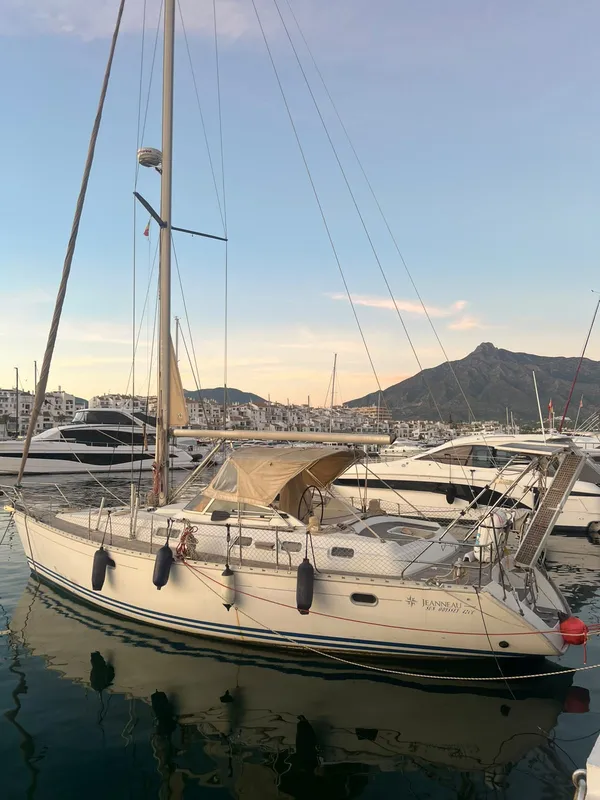
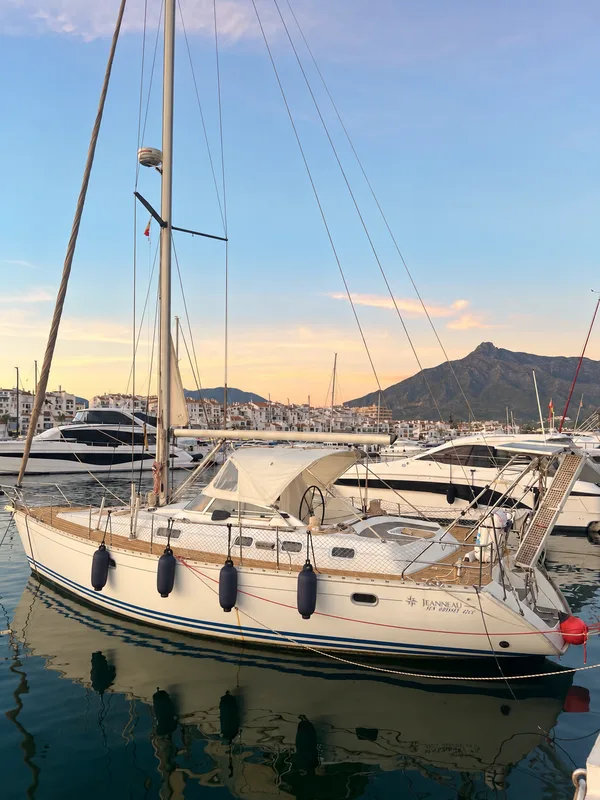
Portada con la foto editada por Jose (con el rótulo 42CC original)

diff --git a/ru/index.html b/ru/index.html
@@ -20,9 +20,9 @@
 <link rel="apple-touch-icon" href="../assets/icono-180.png">
 <link rel="preload" href="../assets/fuentes/sofia-sans-extra-condensed-normal-700-900-cyrillic.woff2" as="font" type="font/woff2" crossorigin>
 <link rel="preload" href="../assets/fuentes/sofia-sans-normal-400-800-cyrillic.woff2" as="font" type="font/woff2" crossorigin>
-<link rel="stylesheet" href="../assets/fuentes.css?v=202610260959">
-<link rel="stylesheet" href="../assets/estilo.css?v=202610260959">
-<link rel="preload" as="image" imagesrcset="../assets/fotos/petit-banus-600.webp 600w, ../assets/fotos/petit-banus-1200.webp 1200w" imagesizes="(max-width: 900px) 100vw, 44vw">
+<link rel="stylesheet" href="../assets/fuentes.css?v=202610261334">
+<link rel="stylesheet" href="../assets/estilo.css?v=202610261334">
+<link rel="preload" as="image" imagesrcset="../assets/fotos/petit-banus-600.webp 600w, ../assets/fotos/petit-banus-1086.webp 1086w" imagesizes="(max-width: 900px) 100vw, 44vw">
 <script type="application/ld+json">{"@context": "https://schema.org", "@type": "LocalBusiness", "name": "Sea With Jose", "url": "https://seawithjose.es/ru/", "image": "https://seawithjose.es/assets/compartir.jpg", "description": "Два часа под парусом из Пуэрто-Бануса с Хосе, капитаном яхты и океанографом: дельфины, купание с маской и ластами, напитки, закуски и фрукты включены. Групповая прогулка 50 € с человека, индивидуальная 350 € за яхту, до 11 гостей.", "telephone": "+34665092090", "email": "josemariahf612@gmail.com", "address": {"@type": "PostalAddress", "streetAddress": "Puerto José Banús", "postalCode": "29660", "addressLocality": "Marbella", "addressRegion": "Málaga", "addressCountry": "ES"}, "geo": {"@type": "GeoCoordinates", "latitude": 36.48517, "longitude": -4.951185}, "areaServed": "Marbella", "sameAs": ["https://www.instagram.com/seawithjose/"], "knowsLanguage": ["en", "es", "ru"], "makesOffer": [{"@type": "Offer", "name": "Групповая прогулка", "price": "50", "priceCurrency": "EUR", "url": "https://seawithjose.es/ru/#reservar"}, {"@type": "Offer", "name": "Индивидуальная прогулка", "price": "350", "priceCurrency": "EUR", "url": "https://seawithjose.es/ru/#reservar"}], "founder": {"@type": "Person", "name": "José María Hinojosa Figueira", "jobTitle": "Yacht captain, oceanographer and diving instructor"}}</script>
 </head>
 <body class="portada">
@@ -55,7 +55,7 @@
     </div>
   </div>
   <figure class="hero-foto">
-    <img src="../assets/fotos/petit-banus-600.webp" srcset="../assets/fotos/petit-banus-600.webp 600w, ../assets/fotos/petit-banus-1200.webp 1200w" sizes="(max-width: 900px) 100vw, 44vw" alt="«Пти» в Пуэрто-Банусе на закате, позади гора Ла-Конча" loading="eager" decoding="async">
+    <img src="../assets/fotos/petit-banus-600.webp" srcset="../assets/fotos/petit-banus-600.webp 600w, ../assets/fotos/petit-banus-1086.webp 1086w" sizes="(max-width: 900px) 100vw, 44vw" alt="«Пти» в Пуэрто-Банусе на закате, позади гора Ла-Конча" loading="eager" decoding="async">
   </figure>
 </section>
 
@@ -290,6 +290,6 @@
   </div>
 </footer>
 <script type="application/json" id="datos-pagina">{"lang": "ru", "prefijo": "../", "whatsapp": "34665092090", "pagina": "portada", "precios": {"compartida": 50, "privada": 350}, "plazas": 11, "dias": 120, "pagos": {"compartida": {}, "privada": ""}, "form": {"tipo": "Прогулка", "tipos": {"compartida": "Групповая", "privada": "Индивидуальная"}, "tipos_sub": {"compartida": "50 € с человека", "privada": "350 € за яхту"}, "fecha": "День", "hora": "Время", "atardecer": "Закат", "personas": "Гостей", "menos": "На одного меньше", "mas": "На одного больше", "max": "Не больше 11", "nombre": "Ваше имя", "nombre_ph": "", "extras": "Дополнительно к индивидуальной прогулке", "extras_nota": "Дополнительные услуги оплачиваются отдельно. Цену пришлю в WhatsApp до прогулки.", "otra": "Что-то ещё?", "total": "Итого", "detalle_compartida": "{n} × 50 €", "detalle_privada": "Вся яхта, 2 часа", "pagar": "Оплатить {total}", "whatsapp": "Забронировать через WhatsApp", "seguro": "Оплату проводит Stripe. Данные карты не проходят через этот сайт.", "politica": "Бесплатная отмена не позднее чем за 24 часа для групповой прогулки и за 48 часов для индивидуальной. Если море не позволяет выйти, перенесём день или я верну деньги.", "sin_pago": "Оплата картой заработает через несколько дней. Пока бронируйте через WhatsApp, я сразу подтвержу.", "falta_fecha": "Выберите день.", "falta_hora": "Выберите время.", "falta_nombre": "Напишите своё имя.", "prevision": "Прогноз AEMET на это время: парус {n}/10 ({banda})", "msg_inicio": "Здравствуйте, Хосе! Хочу забронировать прогулку на «Пти».", "msg_tipo": "Прогулка", "msg_fecha": "День", "msg_hora": "Время", "msg_personas": "Гостей", "msg_extras": "Дополнительно", "msg_nombre": "Имя", "msg_total": "Итого", "msg_ref": "Номер брони", "msg_pagado": "Я только что оплатил(а) на сайте."}, "resumen": {"titulo": "Ваша бронь", "salida": "Прогулка", "fecha": "День", "hora": "Время", "pax": "Гостей", "extras": "Дополнительно", "total": "Итого"}, "extras": {"buffet": "Фуршет на борту", "paella": "Паэлья", "sushi": "Суши", "cocteles": "Коктейли", "tarta": "Торт", "decoracion": "Украшения", "moto": "Гидроцикл", "taxi": "Такси", "otra": "Другая идея"}, "mar": {"hoy": "Сегодня", "manana": "Завтра", "actividades": {"navegar": "Парус", "bucear": "Дайвинг", "pescar": "Рыбалка"}, "bandas": ["Лучше в другой день", "Плохо", "Так себе", "Хорошо", "Отлично"], "motivos": {"buen_viento": "Ветер как раз для паруса.", "mar_tranquila": "Спокойное море.", "sin_viento": "Штиль: больше купания, чем паруса.", "poco_viento": "Слабый ветер: идём медленно.", "viento_fresco": "Свежий ветер: яхта идёт с креном.", "viento": "Небольшой ветер.", "viento_fuerte": "Слишком сильный ветер.", "rachas": "Сильные порывы.", "marejadilla": "Небольшая волна.", "marejada": "Заметная волна.", "mar_fuerte": "Сильное волнение.", "mar_de_fondo": "Зыбь.", "lluvia": "Вероятен дождь.", "tormenta": "Возможна гроза.", "niebla": "Туман или дымка у берега.", "agua_fria": "Холодная вода: нужен толстый гидрокостюм.", "aviso": "Предупреждение AEMET для побережья.", "temporal": "Шторм: остаёмся в порту."}, "pasado": "прошло", "tramo": "ч", "tabla": {"viento": "Ветер", "racha": "Порывы", "mar": "Море", "cielo": "Небо", "lluvia": "Дождь", "agua": "Вода", "fondo": "зыбь"}, "mar_clases": ["рябь", "слабое волнение, до 0,5 м", "лёгкое волнение, 0,5–1,25 м", "умеренное волнение, 1,25–2,5 м", "сильное волнение, больше 2,5 м"], "mar_cortos": ["рябь", "слабое волнение", "лёгкое волнение", "умеренное волнение", "сильное волнение"], "cielos": {"despejado": "ясно", "poco_nuboso": "малооблачно", "intervalos": "переменная облачность", "nuboso": "облачно", "cubierto": "пасмурно", "nubes_altas": "перистые облака", "lluvia": "дождь", "lluvia_escasa": "небольшой дождь", "tormenta": "гроза", "niebla": "туман", "bruma": "дымка", "calima": "пыльная мгла"}, "rumbos": {"N": "С", "NE": "СВ", "E": "В", "SE": "ЮВ", "S": "Ю", "SO": "ЮЗ", "O": "З", "NO": "СЗ", "C": "штиль"}, "kmh": "км/ч", "costera_h": "Прибрежный прогноз AEMET · воды у побережья Малаги", "costera_resumen": "Ветер по шкале Бофорта: {f}; море: {m}.", "costera_a": " или ", "costera_texto": "Официальный текст на испанском:", "costera_hasta": "Действует до {fin}.", "aviso_h": "Предупреждение AEMET для побережья Малаги", "fuente": "Прогноз: AEMET (пляж Рио-Верде – Пуэрто-Банус, Марбелья по часам и прибрежные воды Малаги). Обновлено {hora}.", "sin_datos": "Сейчас прогноз AEMET недоступен. Напишите мне — расскажу, какое море."}}</script>
-<script src="../assets/web.js?v=202610260959" defer></script>
+<script src="../assets/web.js?v=202610261334" defer></script>
 </body>
 </html>

diff --git a/es/index.html b/es/index.html
@@ -20,9 +20,9 @@
 <link rel="apple-touch-icon" href="../assets/icono-180.png">
 <link rel="preload" href="../assets/fuentes/sofia-sans-extra-condensed-normal-700-900-latin.woff2" as="font" type="font/woff2" crossorigin>
 <link rel="preload" href="../assets/fuentes/sofia-sans-normal-400-800-latin.woff2" as="font" type="font/woff2" crossorigin>
-<link rel="stylesheet" href="../assets/fuentes.css?v=202610260959">
-<link rel="stylesheet" href="../assets/estilo.css?v=202610260959">
-<link rel="preload" as="image" imagesrcset="../assets/fotos/petit-banus-600.webp 600w, ../assets/fotos/petit-banus-1200.webp 1200w" imagesizes="(max-width: 900px) 100vw, 44vw">
+<link rel="stylesheet" href="../assets/fuentes.css?v=202610261334">
+<link rel="stylesheet" href="../assets/estilo.css?v=202610261334">
+<link rel="preload" as="image" imagesrcset="../assets/fotos/petit-banus-600.webp 600w, ../assets/fotos/petit-banus-1086.webp 1086w" imagesizes="(max-width: 900px) 100vw, 44vw">
 <script type="application/ld+json">{"@context": "https://schema.org", "@type": "LocalBusiness", "name": "Sea With Jose", "url": "https://seawithjose.es/es/", "image": "https://seawithjose.es/assets/compartir.jpg", "description": "Dos horas a vela desde Puerto Banús con Jose, capitán de yate y oceanógrafo: delfines, baño con gafas y aletas, bebida, snacks y fruta incluidos. Compartida 50 € por persona; privada 350 € el barco, hasta 11 personas.", "telephone": "+34665092090", "email": "josemariahf612@gmail.com", "address": {"@type": "PostalAddress", "streetAddress": "Puerto José Banús", "postalCode": "29660", "addressLocality": "Marbella", "addressRegion": "Málaga", "addressCountry": "ES"}, "geo": {"@type": "GeoCoordinates", "latitude": 36.48517, "longitude": -4.951185}, "areaServed": "Marbella", "sameAs": ["https://www.instagram.com/seawithjose/"], "knowsLanguage": ["en", "es", "ru"], "makesOffer": [{"@type": "Offer", "name": "Salida compartida", "price": "50", "priceCurrency": "EUR", "url": "https://seawithjose.es/es/#reservar"}, {"@type": "Offer", "name": "Salida privada", "price": "350", "priceCurrency": "EUR", "url": "https://seawithjose.es/es/#reservar"}], "founder": {"@type": "Person", "name": "José María Hinojosa Figueira", "jobTitle": "Yacht captain, oceanographer and diving instructor"}}</script>
 </head>
 <body class="portada">
@@ -55,7 +55,7 @@
     </div>
   </div>
   <figure class="hero-foto">
-    <img src="../assets/fotos/petit-banus-600.webp" srcset="../assets/fotos/petit-banus-600.webp 600w, ../assets/fotos/petit-banus-1200.webp 1200w" sizes="(max-width: 900px) 100vw, 44vw" alt="El Petit en Puerto Banús al atardecer, con La Concha detrás" loading="eager" decoding="async">
+    <img src="../assets/fotos/petit-banus-600.webp" srcset="../assets/fotos/petit-banus-600.webp 600w, ../assets/fotos/petit-banus-1086.webp 1086w" sizes="(max-width: 900px) 100vw, 44vw" alt="El Petit en Puerto Banús al atardecer, con La Concha detrás" loading="eager" decoding="async">
   </figure>
 </section>
 
@@ -290,6 +290,6 @@
   </div>
 </footer>
 <script type="application/json" id="datos-pagina">{"lang": "es", "prefijo": "../", "whatsapp": "34665092090", "pagina": "portada", "precios": {"compartida": 50, "privada": 350}, "plazas": 11, "dias": 120, "pagos": {"compartida": {}, "privada": ""}, "form": {"tipo": "Salida", "tipos": {"compartida": "Compartida", "privada": "Privada"}, "tipos_sub": {"compartida": "50 € por persona", "privada": "350 € el barco"}, "fecha": "Día", "hora": "Hora", "atardecer": "Atardecer", "personas": "Personas", "menos": "Una persona menos", "mas": "Una persona más", "max": "Como mucho 11", "nombre": "Tu nombre", "nombre_ph": "", "extras": "Extras para la privada", "extras_nota": "Los extras van aparte. Te paso el precio por WhatsApp antes de la salida.", "otra": "¿Algo más?", "total": "Total", "detalle_compartida": "{n} × 50 €", "detalle_privada": "El barco entero, 2 horas", "pagar": "Pagar {total}", "whatsapp": "Reservar por WhatsApp", "seguro": "El pago lo gestiona Stripe. Los datos de tu tarjeta no pasan por esta web.", "politica": "Cancelación gratis hasta 24 horas antes en la compartida y 48 horas en la privada. Si el mar no deja salir, cambiamos el día o te devuelvo el dinero.", "sin_pago": "El pago con tarjeta estará listo en unos días. Mientras, reserva por WhatsApp y te confirmo enseguida.", "falta_fecha": "Elige el día.", "falta_hora": "Elige la hora.", "falta_nombre": "Dime tu nombre.", "prevision": "Previsión de AEMET para esa hora: navegar {n}/10 ({banda})", "msg_inicio": "¡Hola Jose! Quiero reservar una salida en el Petit.", "msg_tipo": "Salida", "msg_fecha": "Día", "msg_hora": "Hora", "msg_personas": "Personas", "msg_extras": "Extras", "msg_nombre": "Nombre", "msg_total": "Total", "msg_ref": "Referencia", "msg_pagado": "Acabo de pagar por la web."}, "resumen": {"titulo": "Tu reserva", "salida": "Salida", "fecha": "Día", "hora": "Hora", "pax": "Personas", "extras": "Extras", "total": "Total"}, "extras": {"buffet": "Buffet a bordo", "paella": "Paella", "sushi": "Sushi", "cocteles": "Cócteles", "tarta": "Tarta", "decoracion": "Decoración", "moto": "Moto de agua", "taxi": "Taxi", "otra": "Otra idea"}, "mar": {"hoy": "Hoy", "manana": "Mañana", "actividades": {"navegar": "Navegar", "bucear": "Bucear", "pescar": "Pescar"}, "bandas": ["Mejor otro día", "Mala", "Regular", "Buena", "Muy buena"], "motivos": {"buen_viento": "Viento justo para ir a vela.", "mar_tranquila": "Mar tranquila.", "sin_viento": "Sin viento: más baño que vela.", "poco_viento": "Poco viento: se navega despacio.", "viento_fresco": "Viento fresco: se navega escorado.", "viento": "Algo de viento.", "viento_fuerte": "Demasiado viento.", "rachas": "Rachas fuertes.", "marejadilla": "Algo de ola.", "marejada": "Marejada: mar movida.", "mar_fuerte": "Mar fuerte.", "mar_de_fondo": "Mar de fondo.", "lluvia": "Probable lluvia.", "tormenta": "Riesgo de tormenta.", "niebla": "Niebla o bruma en la costa.", "agua_fria": "Agua fría: traje grueso.", "aviso": "Aviso costero de AEMET.", "temporal": "Temporal: no se sale."}, "pasado": "ya pasó", "tramo": "h", "tabla": {"viento": "Viento", "racha": "Rachas", "mar": "Mar", "cielo": "Cielo", "lluvia": "Lluvia", "agua": "Agua", "fondo": "mar de fondo"}, "mar_clases": ["rizada", "marejadilla, hasta 0,5 m", "marejada, 0,5–1,25 m", "fuerte marejada, 1,25–2,5 m", "gruesa, más de 2,5 m"], "mar_cortos": ["rizada", "marejadilla", "marejada", "fuerte marejada", "gruesa"], "cielos": {"despejado": "despejado", "poco_nuboso": "poco nuboso", "intervalos": "intervalos nubosos", "nuboso": "nuboso", "cubierto": "cubierto", "nubes_altas": "nubes altas", "lluvia": "lluvia", "lluvia_escasa": "lluvia débil", "tormenta": "tormenta", "niebla": "niebla", "bruma": "bruma", "calima": "calima"}, "rumbos": {"N": "N", "NE": "NE", "E": "E", "SE": "SE", "S": "S", "SO": "SO", "O": "O", "NO": "NO", "C": "calma"}, "kmh": "km/h", "costera_h": "Parte costero de AEMET · Aguas costeras de Málaga", "costera_resumen": "Viento fuerza {f}, mar {m}.", "costera_a": " a ", "costera_texto": "Texto oficial:", "costera_hasta": "Válido hasta {fin}.", "aviso_h": "Aviso de AEMET para la costa de Málaga", "fuente": "Previsión: AEMET (playa Río Verde – Puerto Banús, Marbella por horas y aguas costeras de Málaga). Actualizada {hora}.", "sin_datos": "Ahora mismo no me llega la previsión de AEMET. Escríbeme y te digo cómo está el mar."}}</script>
-<script src="../assets/web.js?v=202610260959" defer></script>
+<script src="../assets/web.js?v=202610261334" defer></script>
 </body>
 </html>

diff --git a/index.html b/index.html
@@ -20,9 +20,9 @@
 <link rel="apple-touch-icon" href="assets/icono-180.png">
 <link rel="preload" href="assets/fuentes/sofia-sans-extra-condensed-normal-700-900-latin.woff2" as="font" type="font/woff2" crossorigin>
 <link rel="preload" href="assets/fuentes/sofia-sans-normal-400-800-latin.woff2" as="font" type="font/woff2" crossorigin>
-<link rel="stylesheet" href="assets/fuentes.css?v=202610260959">
-<link rel="stylesheet" href="assets/estilo.css?v=202610260959">
-<link rel="preload" as="image" imagesrcset="assets/fotos/petit-banus-600.webp 600w, assets/fotos/petit-banus-1200.webp 1200w" imagesizes="(max-width: 900px) 100vw, 44vw">
+<link rel="stylesheet" href="assets/fuentes.css?v=202610261334">
+<link rel="stylesheet" href="assets/estilo.css?v=202610261334">
+<link rel="preload" as="image" imagesrcset="assets/fotos/petit-banus-600.webp 600w, assets/fotos/petit-banus-1086.webp 1086w" imagesizes="(max-width: 900px) 100vw, 44vw">
 <script type="application/ld+json">{"@context": "https://schema.org", "@type": "LocalBusiness", "name": "Sea With Jose", "url": "https://seawithjose.es/", "image": "https://seawithjose.es/assets/compartir.jpg", "description": "Two hours under sail from Puerto Banús with Jose, yacht captain and oceanographer: dolphins, a swim with mask and fins, drinks, snacks and fruit included. Shared trip €50 per person; private €350 for the boat, up to 11 guests.", "telephone": "+34665092090", "email": "josemariahf612@gmail.com", "address": {"@type": "PostalAddress", "streetAddress": "Puerto José Banús", "postalCode": "29660", "addressLocality": "Marbella", "addressRegion": "Málaga", "addressCountry": "ES"}, "geo": {"@type": "GeoCoordinates", "latitude": 36.48517, "longitude": -4.951185}, "areaServed": "Marbella", "sameAs": ["https://www.instagram.com/seawithjose/"], "knowsLanguage": ["en", "es", "ru"], "makesOffer": [{"@type": "Offer", "name": "Shared trip", "price": "50", "priceCurrency": "EUR", "url": "https://seawithjose.es/#reservar"}, {"@type": "Offer", "name": "Private trip", "price": "350", "priceCurrency": "EUR", "url": "https://seawithjose.es/#reservar"}], "founder": {"@type": "Person", "name": "José María Hinojosa Figueira", "jobTitle": "Yacht captain, oceanographer and diving instructor"}}</script>
 </head>
 <body class="portada">
@@ -55,7 +55,7 @@
     </div>
   </div>
   <figure class="hero-foto">
-    <img src="assets/fotos/petit-banus-600.webp" srcset="assets/fotos/petit-banus-600.webp 600w, assets/fotos/petit-banus-1200.webp 1200w" sizes="(max-width: 900px) 100vw, 44vw" alt="The Petit in Puerto Banús at sunset, with La Concha behind" loading="eager" decoding="async">
+    <img src="assets/fotos/petit-banus-600.webp" srcset="assets/fotos/petit-banus-600.webp 600w, assets/fotos/petit-banus-1086.webp 1086w" sizes="(max-width: 900px) 100vw, 44vw" alt="The Petit in Puerto Banús at sunset, with La Concha behind" loading="eager" decoding="async">
   </figure>
 </section>
 
@@ -290,6 +290,6 @@
   </div>
 </footer>
 <script type="application/json" id="datos-pagina">{"lang": "en", "prefijo": "", "whatsapp": "34665092090", "pagina": "portada", "precios": {"compartida": 50, "privada": 350}, "plazas": 11, "dias": 120, "pagos": {"compartida": {}, "privada": ""}, "form": {"tipo": "Trip", "tipos": {"compartida": "Shared", "privada": "Private"}, "tipos_sub": {"compartida": "€50 per person", "privada": "€350 the boat"}, "fecha": "Day", "hora": "Time", "atardecer": "Sunset", "personas": "People", "menos": "One person fewer", "mas": "One person more", "max": "11 at most", "nombre": "Your name", "nombre_ph": "", "extras": "Extras for private trips", "extras_nota": "Extras are priced separately. I’ll send you the price on WhatsApp before the trip.", "otra": "Anything else?", "total": "Total", "detalle_compartida": "{n} × €50", "detalle_privada": "The whole boat, 2 hours", "pagar": "Pay {total}", "whatsapp": "Book on WhatsApp", "seguro": "Payment is handled by Stripe. Your card details never go through this website.", "politica": "Free cancellation up to 24 hours before a shared trip and 48 hours before a private one. If the sea isn’t good enough to go out, we change the day or I give you your money back.", "sin_pago": "Card payment will be ready in a few days. For now, book on WhatsApp and I’ll confirm straight away.", "falta_fecha": "Choose a day.", "falta_hora": "Choose a time.", "falta_nombre": "Tell me your name.", "prevision": "AEMET forecast for that time: sailing {n}/10 ({banda})", "msg_inicio": "Hi Jose! I’d like to book a trip on the Petit.", "msg_tipo": "Trip", "msg_fecha": "Day", "msg_hora": "Time", "msg_personas": "People", "msg_extras": "Extras", "msg_nombre": "Name", "msg_total": "Total", "msg_ref": "Reference", "msg_pagado": "I’ve just paid online."}, "resumen": {"titulo": "Your booking", "salida": "Trip", "fecha": "Day", "hora": "Time", "pax": "People", "extras": "Extras", "total": "Total"}, "extras": {"buffet": "Buffet on board", "paella": "Paella", "sushi": "Sushi", "cocteles": "Cocktails", "tarta": "Cake", "decoracion": "Decorations", "moto": "Jet ski", "taxi": "Taxi", "otra": "Something else"}, "mar": {"hoy": "Today", "manana": "Tomorrow", "actividades": {"navegar": "Sailing", "bucear": "Diving", "pescar": "Fishing"}, "bandas": ["Better another day", "Poor", "Fair", "Good", "Excellent"], "motivos": {"buen_viento": "Just the right wind for sailing.", "mar_tranquila": "Calm sea.", "sin_viento": "No wind: more swimming than sailing.", "poco_viento": "Light wind: slow sailing.", "viento_fresco": "Fresh breeze: the boat heels.", "viento": "A bit of wind.", "viento_fuerte": "Too much wind.", "rachas": "Strong gusts.", "marejadilla": "Small waves.", "marejada": "Choppy sea.", "mar_fuerte": "Rough sea.", "mar_de_fondo": "Swell.", "lluvia": "Rain likely.", "tormenta": "Risk of thunderstorms.", "niebla": "Fog or haze along the coast.", "agua_fria": "Cold water: thick wetsuit.", "aviso": "AEMET coastal warning.", "temporal": "Gale: we stay in port."}, "pasado": "over", "tramo": "h", "tabla": {"viento": "Wind", "racha": "Gusts", "mar": "Sea", "cielo": "Sky", "lluvia": "Rain", "agua": "Water", "fondo": "swell"}, "mar_clases": ["calm, ripples", "smooth, up to 0.5 m", "slight, 0.5–1.25 m", "moderate, 1.25–2.5 m", "rough, over 2.5 m"], "mar_cortos": ["calm", "smooth", "slight", "moderate", "rough"], "cielos": {"despejado": "clear", "poco_nuboso": "partly cloudy", "intervalos": "cloudy spells", "nuboso": "cloudy", "cubierto": "overcast", "nubes_altas": "high cloud", "lluvia": "rain", "lluvia_escasa": "light rain", "tormenta": "thunderstorms", "niebla": "fog", "bruma": "haze", "calima": "dust haze"}, "rumbos": {"N": "N", "NE": "NE", "E": "E", "SE": "SE", "S": "S", "SO": "SW", "O": "W", "NO": "NW", "C": "calm"}, "kmh": "km/h", "costera_h": "AEMET coastal forecast · Málaga coastal waters", "costera_resumen": "Wind force {f} Beaufort, sea {m}.", "costera_a": " to ", "costera_texto": "Official text, in Spanish:", "costera_hasta": "Valid until {fin}.", "aviso_h": "AEMET warning for the Málaga coast", "fuente": "Forecast: AEMET (Río Verde – Puerto Banús beach, Marbella hour by hour and Málaga coastal waters). Updated {hora}.", "sin_datos": "The AEMET forecast isn’t coming through right now. Message me and I’ll tell you how the sea looks."}}</script>
-<script src="assets/web.js?v=202610260959" defer></script>
+<script src="assets/web.js?v=202610261334" defer></script>
 </body>
 </html>

diff --git a/ru/gracias.html b/ru/gracias.html
@@ -20,8 +20,8 @@
 <link rel="apple-touch-icon" href="../assets/icono-180.png">
 <link rel="preload" href="../assets/fuentes/sofia-sans-extra-condensed-normal-700-900-cyrillic.woff2" as="font" type="font/woff2" crossorigin>
 <link rel="preload" href="../assets/fuentes/sofia-sans-normal-400-800-cyrillic.woff2" as="font" type="font/woff2" crossorigin>
-<link rel="stylesheet" href="../assets/fuentes.css?v=202610260959">
-<link rel="stylesheet" href="../assets/estilo.css?v=202610260959">
+<link rel="stylesheet" href="../assets/fuentes.css?v=202610261334">
+<link rel="stylesheet" href="../assets/estilo.css?v=202610261334">
 <meta name="robots" content="noindex">
 </head>
 <body>
@@ -72,6 +72,6 @@
   </div>
 </footer>
 <script type="application/json" id="datos-pagina">{"pagina": "gracias", "resumen": {"titulo": "Ваша бронь", "salida": "Прогулка", "fecha": "День", "hora": "Время", "pax": "Гостей", "extras": "Дополнительно", "total": "Итого"}, "form": {"tipo": "Прогулка", "tipos": {"compartida": "Групповая", "privada": "Индивидуальная"}, "tipos_sub": {"compartida": "50 € с человека", "privada": "350 € за яхту"}, "fecha": "День", "hora": "Время", "atardecer": "Закат", "personas": "Гостей", "menos": "На одного меньше", "mas": "На одного больше", "max": "Не больше 11", "nombre": "Ваше имя", "nombre_ph": "", "extras": "Дополнительно к индивидуальной прогулке", "extras_nota": "Дополнительные услуги оплачиваются отдельно. Цену пришлю в WhatsApp до прогулки.", "otra": "Что-то ещё?", "total": "Итого", "detalle_compartida": "{n} × 50 €", "detalle_privada": "Вся яхта, 2 часа", "pagar": "Оплатить {total}", "whatsapp": "Забронировать через WhatsApp", "seguro": "Оплату проводит Stripe. Данные карты не проходят через этот сайт.", "politica": "Бесплатная отмена не позднее чем за 24 часа для групповой прогулки и за 48 часов для индивидуальной. Если море не позволяет выйти, перенесём день или я верну деньги.", "sin_pago": "Оплата картой заработает через несколько дней. Пока бронируйте через WhatsApp, я сразу подтвержу.", "falta_fecha": "Выберите день.", "falta_hora": "Выберите время.", "falta_nombre": "Напишите своё имя.", "prevision": "Прогноз AEMET на это время: парус {n}/10 ({banda})", "msg_inicio": "Здравствуйте, Хосе! Хочу забронировать прогулку на «Пти».", "msg_tipo": "Прогулка", "msg_fecha": "День", "msg_hora": "Время", "msg_personas": "Гостей", "msg_extras": "Дополнительно", "msg_nombre": "Имя", "msg_total": "Итого", "msg_ref": "Номер брони", "msg_pagado": "Я только что оплатил(а) на сайте."}, "extras": {"buffet": "Фуршет на борту", "paella": "Паэлья", "sushi": "Суши", "cocteles": "Коктейли", "tarta": "Торт", "decoracion": "Украшения", "moto": "Гидроцикл", "taxi": "Такси", "otra": "Другая идея"}, "lang": "ru", "prefijo": "../", "whatsapp": "34665092090"}</script>
-<script src="../assets/web.js?v=202610260959" defer></script>
+<script src="../assets/web.js?v=202610261334" defer></script>
 </body>
 </html>

diff --git a/es/gracias.html b/es/gracias.html
@@ -20,8 +20,8 @@
 <link rel="apple-touch-icon" href="../assets/icono-180.png">
 <link rel="preload" href="../assets/fuentes/sofia-sans-extra-condensed-normal-700-900-latin.woff2" as="font" type="font/woff2" crossorigin>
 <link rel="preload" href="../assets/fuentes/sofia-sans-normal-400-800-latin.woff2" as="font" type="font/woff2" crossorigin>
-<link rel="stylesheet" href="../assets/fuentes.css?v=202610260959">
-<link rel="stylesheet" href="../assets/estilo.css?v=202610260959">
+<link rel="stylesheet" href="../assets/fuentes.css?v=202610261334">
+<link rel="stylesheet" href="../assets/estilo.css?v=202610261334">
 <meta name="robots" content="noindex">
 </head>
 <body>
@@ -72,6 +72,6 @@
   </div>
 </footer>
 <script type="application/json" id="datos-pagina">{"pagina": "gracias", "resumen": {"titulo": "Tu reserva", "salida": "Salida", "fecha": "Día", "hora": "Hora", "pax": "Personas", "extras": "Extras", "total": "Total"}, "form": {"tipo": "Salida", "tipos": {"compartida": "Compartida", "privada": "Privada"}, "tipos_sub": {"compartida": "50 € por persona", "privada": "350 € el barco"}, "fecha": "Día", "hora": "Hora", "atardecer": "Atardecer", "personas": "Personas", "menos": "Una persona menos", "mas": "Una persona más", "max": "Como mucho 11", "nombre": "Tu nombre", "nombre_ph": "", "extras": "Extras para la privada", "extras_nota": "Los extras van aparte. Te paso el precio por WhatsApp antes de la salida.", "otra": "¿Algo más?", "total": "Total", "detalle_compartida": "{n} × 50 €", "detalle_privada": "El barco entero, 2 horas", "pagar": "Pagar {total}", "whatsapp": "Reservar por WhatsApp", "seguro": "El pago lo gestiona Stripe. Los datos de tu tarjeta no pasan por esta web.", "politica": "Cancelación gratis hasta 24 horas antes en la compartida y 48 horas en la privada. Si el mar no deja salir, cambiamos el día o te devuelvo el dinero.", "sin_pago": "El pago con tarjeta estará listo en unos días. Mientras, reserva por WhatsApp y te confirmo enseguida.", "falta_fecha": "Elige el día.", "falta_hora": "Elige la hora.", "falta_nombre": "Dime tu nombre.", "prevision": "Previsión de AEMET para esa hora: navegar {n}/10 ({banda})", "msg_inicio": "¡Hola Jose! Quiero reservar una salida en el Petit.", "msg_tipo": "Salida", "msg_fecha": "Día", "msg_hora": "Hora", "msg_personas": "Personas", "msg_extras": "Extras", "msg_nombre": "Nombre", "msg_total": "Total", "msg_ref": "Referencia", "msg_pagado": "Acabo de pagar por la web."}, "extras": {"buffet": "Buffet a bordo", "paella": "Paella", "sushi": "Sushi", "cocteles": "Cócteles", "tarta": "Tarta", "decoracion": "Decoración", "moto": "Moto de agua", "taxi": "Taxi", "otra": "Otra idea"}, "lang": "es", "prefijo": "../", "whatsapp": "34665092090"}</script>
-<script src="../assets/web.js?v=202610260959" defer></script>
+<script src="../assets/web.js?v=202610261334" defer></script>
 </body>
 </html>

diff --git a/gracias.html b/gracias.html
@@ -20,8 +20,8 @@
 <link rel="apple-touch-icon" href="assets/icono-180.png">
 <link rel="preload" href="assets/fuentes/sofia-sans-extra-condensed-normal-700-900-latin.woff2" as="font" type="font/woff2" crossorigin>
 <link rel="preload" href="assets/fuentes/sofia-sans-normal-400-800-latin.woff2" as="font" type="font/woff2" crossorigin>
-<link rel="stylesheet" href="assets/fuentes.css?v=202610260959">
-<link rel="stylesheet" href="assets/estilo.css?v=202610260959">
+<link rel="stylesheet" href="assets/fuentes.css?v=202610261334">
+<link rel="stylesheet" href="assets/estilo.css?v=202610261334">
 <meta name="robots" content="noindex">
 </head>
 <body>
@@ -72,6 +72,6 @@
   </div>
 </footer>
 <script type="application/json" id="datos-pagina">{"pagina": "gracias", "resumen": {"titulo": "Your booking", "salida": "Trip", "fecha": "Day", "hora": "Time", "pax": "People", "extras": "Extras", "total": "Total"}, "form": {"tipo": "Trip", "tipos": {"compartida": "Shared", "privada": "Private"}, "tipos_sub": {"compartida": "€50 per person", "privada": "€350 the boat"}, "fecha": "Day", "hora": "Time", "atardecer": "Sunset", "personas": "People", "menos": "One person fewer", "mas": "One person more", "max": "11 at most", "nombre": "Your name", "nombre_ph": "", "extras": "Extras for private trips", "extras_nota": "Extras are priced separately. I’ll send you the price on WhatsApp before the trip.", "otra": "Anything else?", "total": "Total", "detalle_compartida": "{n} × €50", "detalle_privada": "The whole boat, 2 hours", "pagar": "Pay {total}", "whatsapp": "Book on WhatsApp", "seguro": "Payment is handled by Stripe. Your card details never go through this website.", "politica": "Free cancellation up to 24 hours before a shared trip and 48 hours before a private one. If the sea isn’t good enough to go out, we change the day or I give you your money back.", "sin_pago": "Card payment will be ready in a few days. For now, book on WhatsApp and I’ll confirm straight away.", "falta_fecha": "Choose a day.", "falta_hora": "Choose a time.", "falta_nombre": "Tell me your name.", "prevision": "AEMET forecast for that time: sailing {n}/10 ({banda})", "msg_inicio": "Hi Jose! I’d like to book a trip on the Petit.", "msg_tipo": "Trip", "msg_fecha": "Day", "msg_hora": "Time", "msg_personas": "People", "msg_extras": "Extras", "msg_nombre": "Name", "msg_total": "Total", "msg_ref": "Reference", "msg_pagado": "I’ve just paid online."}, "extras": {"buffet": "Buffet on board", "paella": "Paella", "sushi": "Sushi", "cocteles": "Cocktails", "tarta": "Cake", "decoracion": "Decorations", "moto": "Jet ski", "taxi": "Taxi", "otra": "Something else"}, "lang": "en", "prefijo": "", "whatsapp": "34665092090"}</script>
-<script src="assets/web.js?v=202610260959" defer></script>
+<script src="assets/web.js?v=202610261334" defer></script>
 </body>
 </html>

diff --git a/ru/datos.html b/ru/datos.html
@@ -20,8 +20,8 @@
 <link rel="apple-touch-icon" href="../assets/icono-180.png">
 <link rel="preload" href="../assets/fuentes/sofia-sans-extra-condensed-normal-700-900-cyrillic.woff2" as="font" type="font/woff2" crossorigin>
 <link rel="preload" href="../assets/fuentes/sofia-sans-normal-400-800-cyrillic.woff2" as="font" type="font/woff2" crossorigin>
-<link rel="stylesheet" href="../assets/fuentes.css?v=202610260959">
-<link rel="stylesheet" href="../assets/estilo.css?v=202610260959">
+<link rel="stylesheet" href="../assets/fuentes.css?v=202610261334">
+<link rel="stylesheet" href="../assets/estilo.css?v=202610261334">
 </head>
 <body class="pagina-datos">
 <a class="saltar" href="#contenido">Перейти к содержанию</a>
@@ -106,7 +106,7 @@
 <script src="../assets/vendor/chartjs-adapter-date-fns.bundle.min.js"></script>
 <script src="../assets/vendor/hammer.min.js"></script>
 <script src="../assets/vendor/chartjs-plugin-zoom.min.js"></script>
-<script src="../assets/datos.js?v=202610260959" defer></script>
-<script src="../assets/web.js?v=202610260959" defer></script>
+<script src="../assets/datos.js?v=202610261334" defer></script>
+<script src="../assets/web.js?v=202610261334" defer></script>
 </body>
 </html>

diff --git a/es/datos.html b/es/datos.html
@@ -20,8 +20,8 @@
 <link rel="apple-touch-icon" href="../assets/icono-180.png">
 <link rel="preload" href="../assets/fuentes/sofia-sans-extra-condensed-normal-700-900-latin.woff2" as="font" type="font/woff2" crossorigin>
 <link rel="preload" href="../assets/fuentes/sofia-sans-normal-400-800-latin.woff2" as="font" type="font/woff2" crossorigin>
-<link rel="stylesheet" href="../assets/fuentes.css?v=202610260959">
-<link rel="stylesheet" href="../assets/estilo.css?v=202610260959">
+<link rel="stylesheet" href="../assets/fuentes.css?v=202610261334">
+<link rel="stylesheet" href="../assets/estilo.css?v=202610261334">
 </head>
 <body class="pagina-datos">
 <a class="saltar" href="#contenido">Ir al contenido</a>
@@ -106,7 +106,7 @@
 <script src="../assets/vendor/chartjs-adapter-date-fns.bundle.min.js"></script>
 <script src="../assets/vendor/hammer.min.js"></script>
 <script src="../assets/vendor/chartjs-plugin-zoom.min.js"></script>
-<script src="../assets/datos.js?v=202610260959" defer></script>
-<script src="../assets/web.js?v=202610260959" defer></script>
+<script src="../assets/datos.js?v=202610261334" defer></script>
+<script src="../assets/web.js?v=202610261334" defer></script>
 </body>
 </html>

diff --git a/datos.html b/datos.html
@@ -20,8 +20,8 @@
 <link rel="apple-touch-icon" href="assets/icono-180.png">
 <link rel="preload" href="assets/fuentes/sofia-sans-extra-condensed-normal-700-900-latin.woff2" as="font" type="font/woff2" crossorigin>
 <link rel="preload" href="assets/fuentes/sofia-sans-normal-400-800-latin.woff2" as="font" type="font/woff2" crossorigin>
-<link rel="stylesheet" href="assets/fuentes.css?v=202610260959">
-<link rel="stylesheet" href="assets/estilo.css?v=202610260959">
+<link rel="stylesheet" href="assets/fuentes.css?v=202610261334">
+<link rel="stylesheet" href="assets/estilo.css?v=202610261334">
 </head>
 <body class="pagina-datos">
 <a class="saltar" href="#contenido">Skip to content</a>
@@ -106,7 +106,7 @@
 <script src="assets/vendor/chartjs-adapter-date-fns.bundle.min.js"></script>
 <script src="assets/vendor/hammer.min.js"></script>
 <script src="assets/vendor/chartjs-plugin-zoom.min.js"></script>
-<script src="assets/datos.js?v=202610260959" defer></script>
-<script src="assets/web.js?v=202610260959" defer></script>
+<script src="assets/datos.js?v=202610261334" defer></script>
+<script src="assets/web.js?v=202610261334" defer></script>
 </body>
 </html>

diff --git a/ru/legal.html b/ru/legal.html
@@ -20,8 +20,8 @@
 <link rel="apple-touch-icon" href="../assets/icono-180.png">
 <link rel="preload" href="../assets/fuentes/sofia-sans-extra-condensed-normal-700-900-cyrillic.woff2" as="font" type="font/woff2" crossorigin>
 <link rel="preload" href="../assets/fuentes/sofia-sans-normal-400-800-cyrillic.woff2" as="font" type="font/woff2" crossorigin>
-<link rel="stylesheet" href="../assets/fuentes.css?v=202610260959">
-<link rel="stylesheet" href="../assets/estilo.css?v=202610260959">
+<link rel="stylesheet" href="../assets/fuentes.css?v=202610261334">
+<link rel="stylesheet" href="../assets/estilo.css?v=202610261334">
 <meta name="robots" content="noindex">
 </head>
 <body>
@@ -65,6 +65,6 @@
   </div>
 </footer>
 <script type="application/json" id="datos-pagina">{"lang": "ru", "prefijo": "../", "whatsapp": "34665092090"}</script>
-<script src="../assets/web.js?v=202610260959" defer></script>
+<script src="../assets/web.js?v=202610261334" defer></script>
 </body>
 </html>

diff --git a/ru/revista.html b/ru/revista.html
@@ -20,8 +20,8 @@
 <link rel="apple-touch-icon" href="../assets/icono-180.png">
 <link rel="preload" href="../assets/fuentes/sofia-sans-extra-condensed-normal-700-900-cyrillic.woff2" as="font" type="font/woff2" crossorigin>
 <link rel="preload" href="../assets/fuentes/sofia-sans-normal-400-800-cyrillic.woff2" as="font" type="font/woff2" crossorigin>
-<link rel="stylesheet" href="../assets/fuentes.css?v=202610260959">
-<link rel="stylesheet" href="../assets/estilo.css?v=202610260959">
+<link rel="stylesheet" href="../assets/fuentes.css?v=202610261334">
+<link rel="stylesheet" href="../assets/estilo.css?v=202610261334">
 </head>
 <body class="pagina-revista">
 <a class="saltar" href="#contenido">Перейти к содержанию</a>
@@ -89,6 +89,6 @@
   c.appendChild(b); c.appendChild(p); c.hidden = false;
 })();
 </script>
-<script src="../assets/web.js?v=202610260959" defer></script>
+<script src="../assets/web.js?v=202610261334" defer></script>
 </body>
 </html>

diff --git a/es/legal.html b/es/legal.html
@@ -20,8 +20,8 @@
 <link rel="apple-touch-icon" href="../assets/icono-180.png">
 <link rel="preload" href="../assets/fuentes/sofia-sans-extra-condensed-normal-700-900-latin.woff2" as="font" type="font/woff2" crossorigin>
 <link rel="preload" href="../assets/fuentes/sofia-sans-normal-400-800-latin.woff2" as="font" type="font/woff2" crossorigin>
-<link rel="stylesheet" href="../assets/fuentes.css?v=202610260959">
-<link rel="stylesheet" href="../assets/estilo.css?v=202610260959">
+<link rel="stylesheet" href="../assets/fuentes.css?v=202610261334">
+<link rel="stylesheet" href="../assets/estilo.css?v=202610261334">
 <meta name="robots" content="noindex">
 </head>
 <body>
@@ -65,6 +65,6 @@
   </div>
 </footer>
 <script type="application/json" id="datos-pagina">{"lang": "es", "prefijo": "../", "whatsapp": "34665092090"}</script>
-<script src="../assets/web.js?v=202610260959" defer></script>
+<script src="../assets/web.js?v=202610261334" defer></script>
 </body>
 </html>
